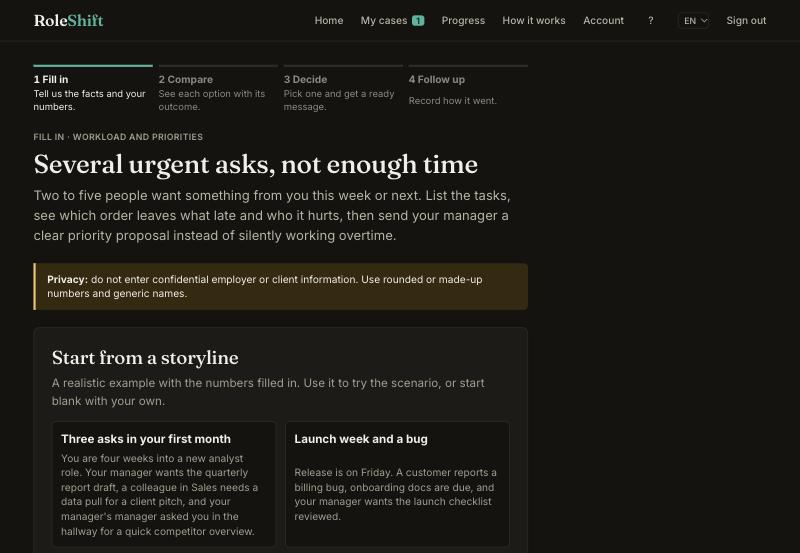
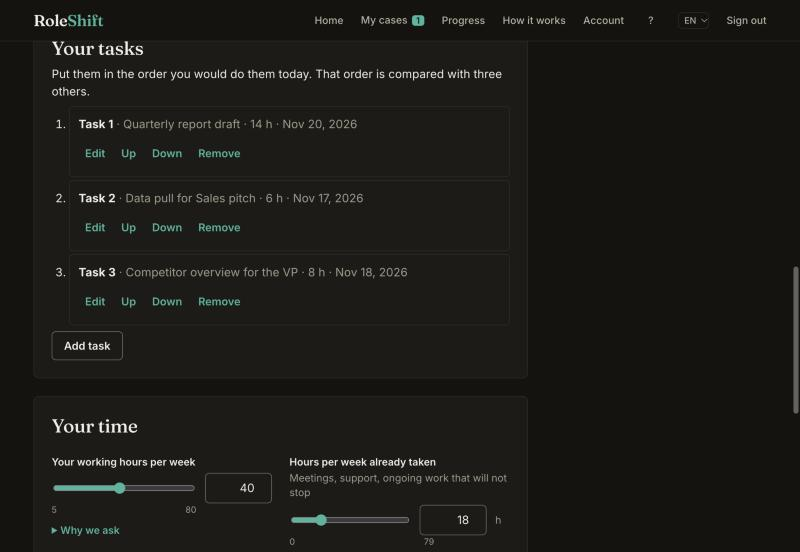
Guide: desktop-only wording, refreshed English form and guess screenshots

diff --git a/docs/USER_GUIDE.ru.md b/docs/USER_GUIDE.ru.md
@@ -13,7 +13,7 @@
 На главной три упражнения «первой недели»: изменение от клиента, несколько срочных просьб, «когда будет готово?». Кнопка **«Start here: a worked example»** покажет результат за секунды. Не знаете, что выбрать? Опишите ситуацию своими словами в блоке «Describe your scenario».
 
 ## 3. Ввести свои цифры
-Выберите готовую историю (storyline) или начните с пустой формы. Проценты, часы и оценки задаются **ползунком** (рядом можно ввести точное число), а подпись под ползунком словами показывает, что вы выбрали («Подрывает доверие или стоит денег»). Короткие варианты выбираются кнопками, а к полю даты есть быстрые кнопки: «Сегодня», «Завтра», «В пятницу», «Через неделю», «Через 2 недели». Не вводите конфиденциальные данные работодателя или клиента: используйте округлённые и придуманные числа. Блок **«Money and quality (optional)»** можно оставить пустым: тогда расчёт идёт только по времени.
+Выберите готовую историю (storyline) или начните с пустой формы. Проценты, часы и оценки задаются **ползунком** (рядом можно ввести точное число), а подпись под ползунком словами показывает, что вы выбрали («Подрывает доверие или стоит денег»). Строки задач и вариантов сворачиваются в одну строку (кнопка «Изменить» открывает поля). Короткие варианты выбираются кнопками, а к полю даты есть быстрые кнопки: «Сегодня», «Завтра», «В пятницу», «Через неделю», «Через 2 недели». Не вводите конфиденциальные данные работодателя или клиента: используйте округлённые и придуманные числа. Блок **«Money and quality (optional)»** можно оставить пустым: тогда расчёт идёт только по времени.
 
 ![Форма](img/ru-02-form.jpg)
 
@@ -37,10 +37,8 @@
 
 ![Progress](img/ru-05-progress.jpg)
 
-## На телефоне
-Всё работает на узком экране (проверено на ширине 390 px, без горизонтальной прокрутки). Меню переносится на вторую строку, таблицы можно листать вбок.
-
-<img src="img/ru-m1-home.jpg" width="200"> <img src="img/ru-m2-form.jpg" width="200"> <img src="img/ru-m3-case.jpg" width="200">
+## Устройство
+Сервис рассчитан на компьютер: используйте браузер на ноутбуке или настольном ПК. На телефоне страницы открываются, но формы длинные и под телефон не оптимизированы, поэтому для проверки берите компьютер.
 
 ## Для тестировщиков
 - **Вход:** кнопка «Try the demo» (отдельный временный аккаунт на каждое нажатие, данные примерные и могут быть удалены в любой момент; общего демо-аккаунта нет). Для своей должности зарегистрируйтесь и выберите её при входе (позже: Account → Edit my position).

diff --git a/docs/USER_GUIDE.en.md b/docs/USER_GUIDE.en.md
@@ -13,9 +13,9 @@ Press **"Try the demo"** on the sign-in page: a demo account with examples opens
 Home shows three "first week" exercises: a client change request, several urgent asks, "when will it be done?". **"Start here: a worked example"** shows a result in seconds. Not sure which fits? Describe it in your own words under "Describe your scenario".
 
 ## 3. Enter your numbers
-Start from a storyline or an empty form. Percentages, hours and ratings are set with a **slider** (type an exact number next to it if you prefer), and a word under the slider shows what you picked ("It hurts trust or costs something"). Short choices are buttons, and date fields have quick buttons: Today, Tomorrow, This Friday, In 1 week, In 2 weeks. Do not enter confidential employer or client information: use rounded or made-up numbers. The **"Money and quality (optional)"** group can stay empty; then the calculation covers time only.
+Start from a storyline or an empty form. Percentages, hours and ratings are set with a **slider** (type an exact number next to it if you prefer), and a word under the slider shows what you picked ("It hurts trust or costs something"). Task and option rows collapse into one-line cards (press Edit to change one). Short choices are buttons, and date fields have quick buttons: Today, Tomorrow, This Friday, In 1 week, In 2 weeks. Do not enter confidential employer or client information: use rounded or made-up numbers. The **"Money and quality (optional)"** group can stay empty; then the calculation covers time only.
 
-![Form](img/02-form.jpg)
+![Form: collapsible task cards and sliders](img/02-form.jpg)
 
 ## 4. Guess, then see the numbers
 Before the result you can guess (how many tasks finish late, which order is best, which date you could promise). You can skip. The server then scores the guess against the numbers, and **Progress** collects your accuracy. This is agreement with the calculator on your numbers, not a judgement of real-life decisions.
@@ -37,10 +37,8 @@ Choose when to be asked "how did it go". Optionally an email arrives with "worke
 
 ![Progress](img/05-progress.jpg)
 
-## On your phone
-Everything works on a narrow screen (checked at 390 px width, no horizontal scroll). The menu wraps to a second line and tables scroll sideways.
-
-<img src="img/m1-home.jpg" width="200"> <img src="img/m2-form.jpg" width="200"> <img src="img/m3-case.jpg" width="200">
+## Device
+The service is designed for a computer: use a browser on a laptop or desktop. Pages open on a phone, but the forms are long and not optimised for it, so please test on a computer.
 
 ## For testers
 - **Sign in:** the "Try the demo" button (a separate temporary account on every press; the data is sample data and can be deleted at any time; there is no shared demo account). For your own position, register and pick it at sign-up (later: Account -> Edit my position).
